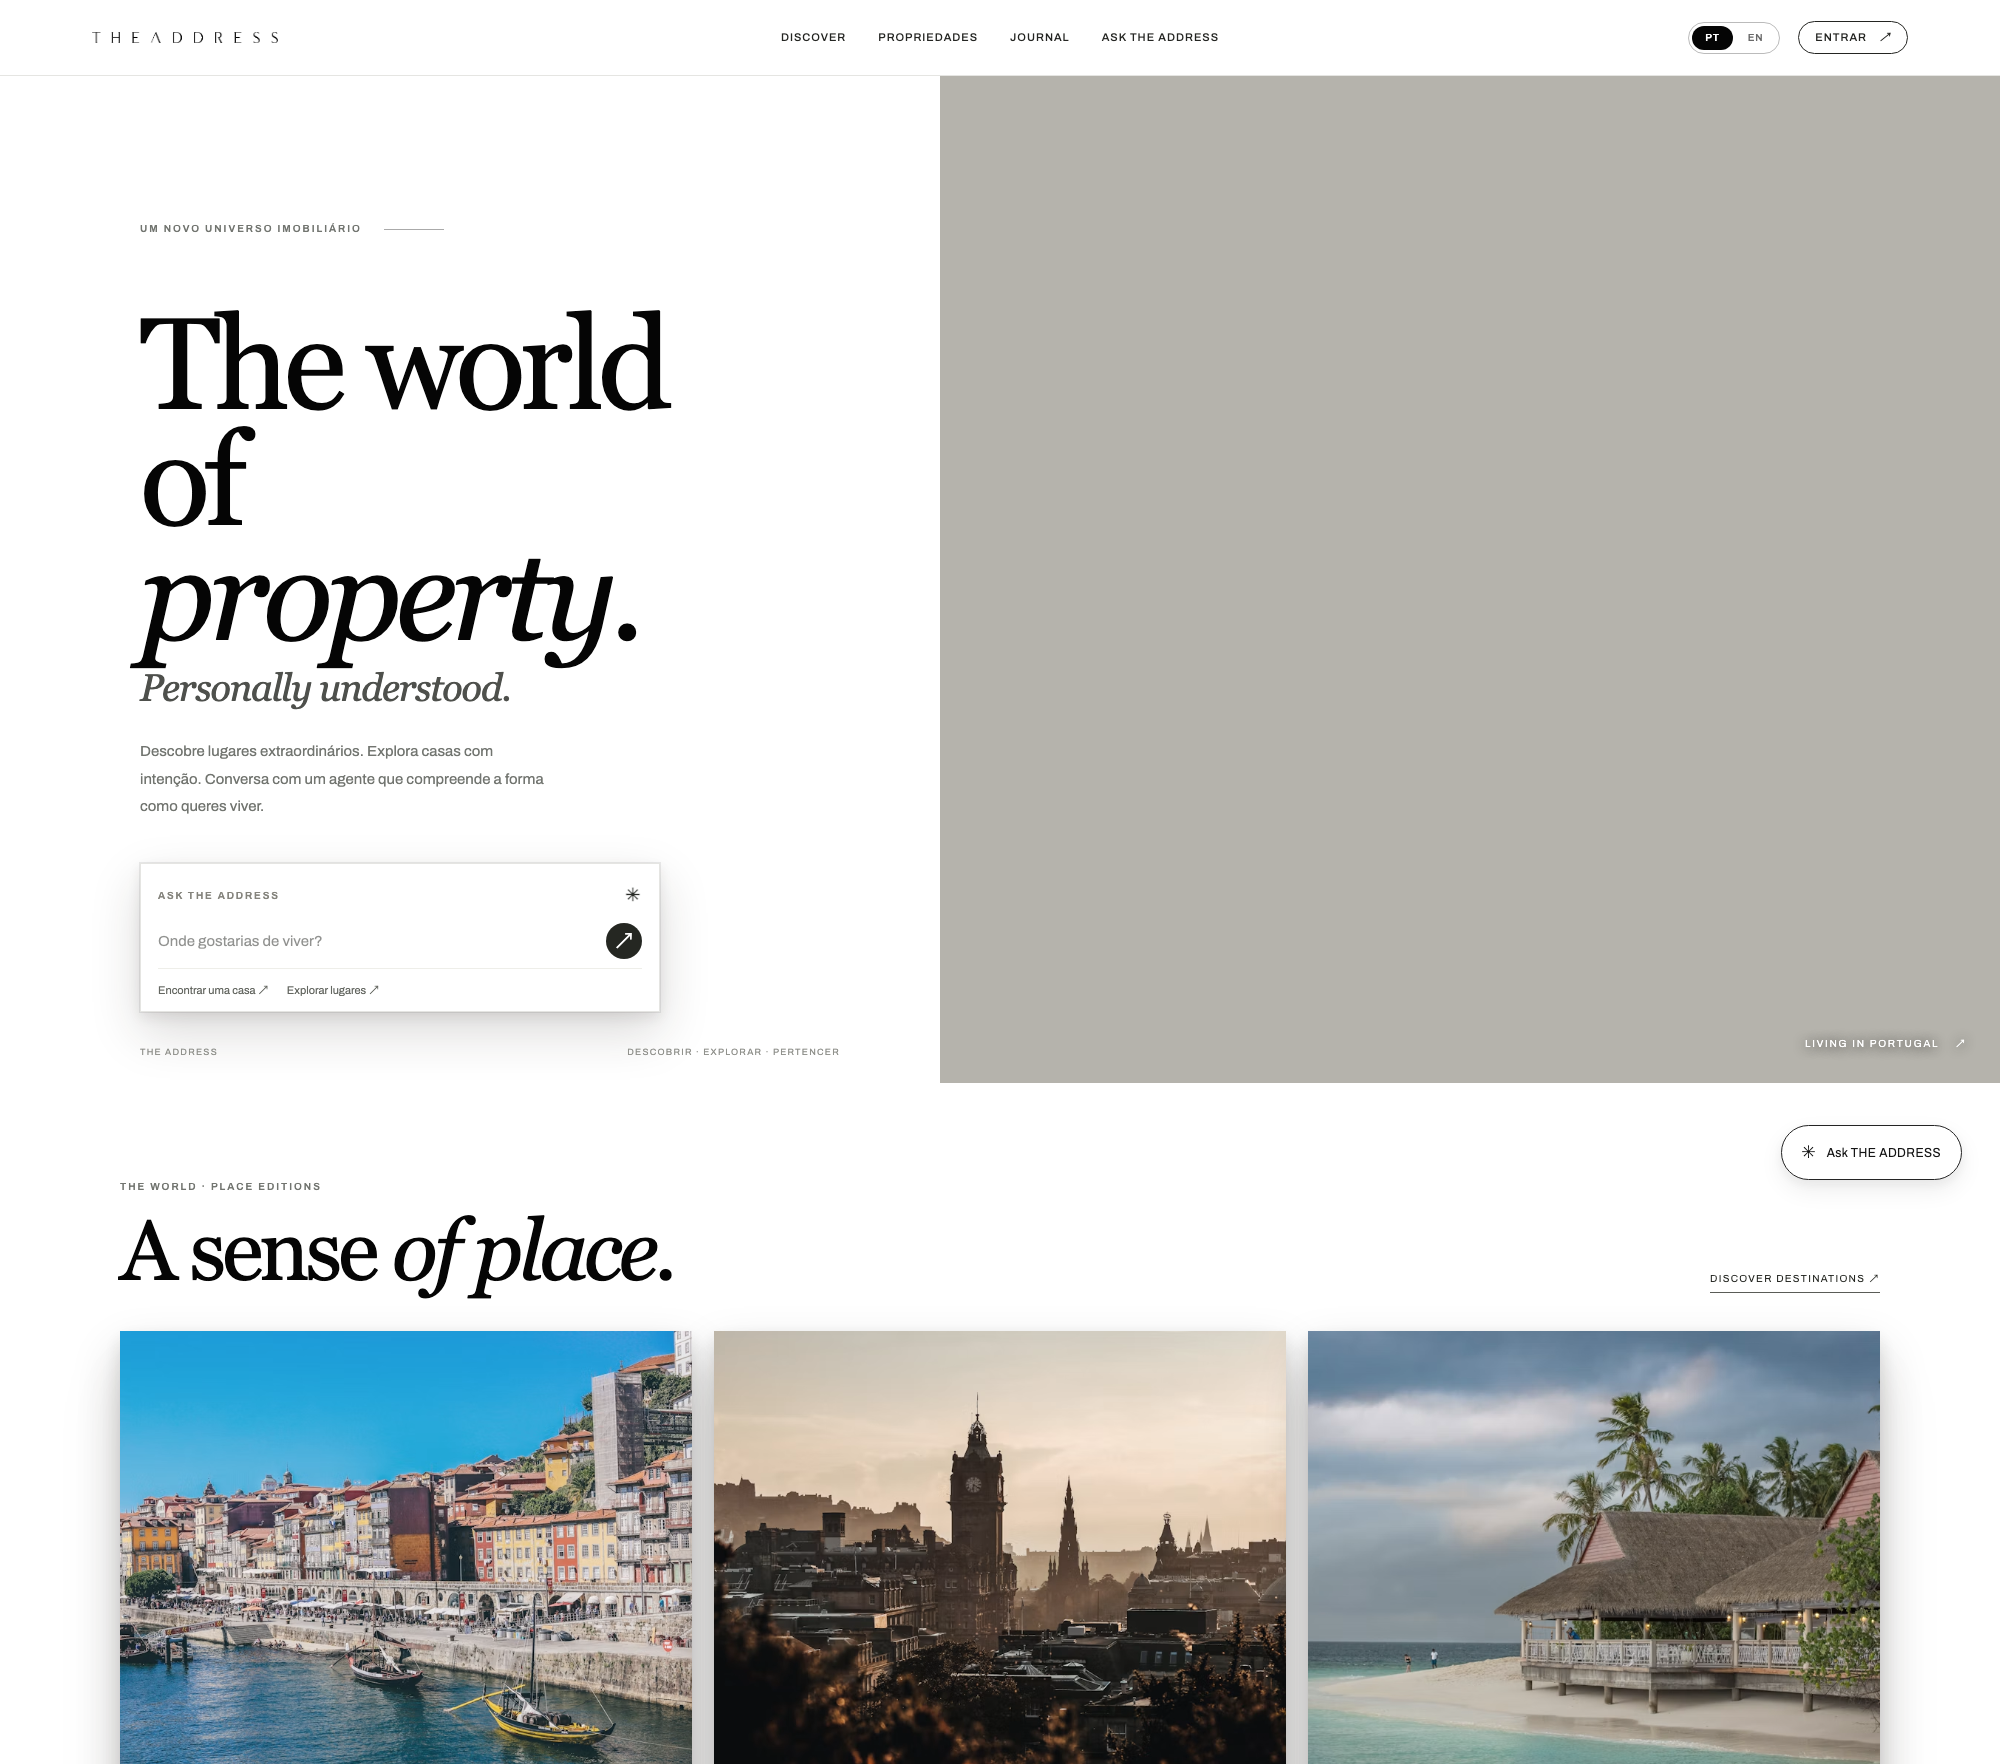
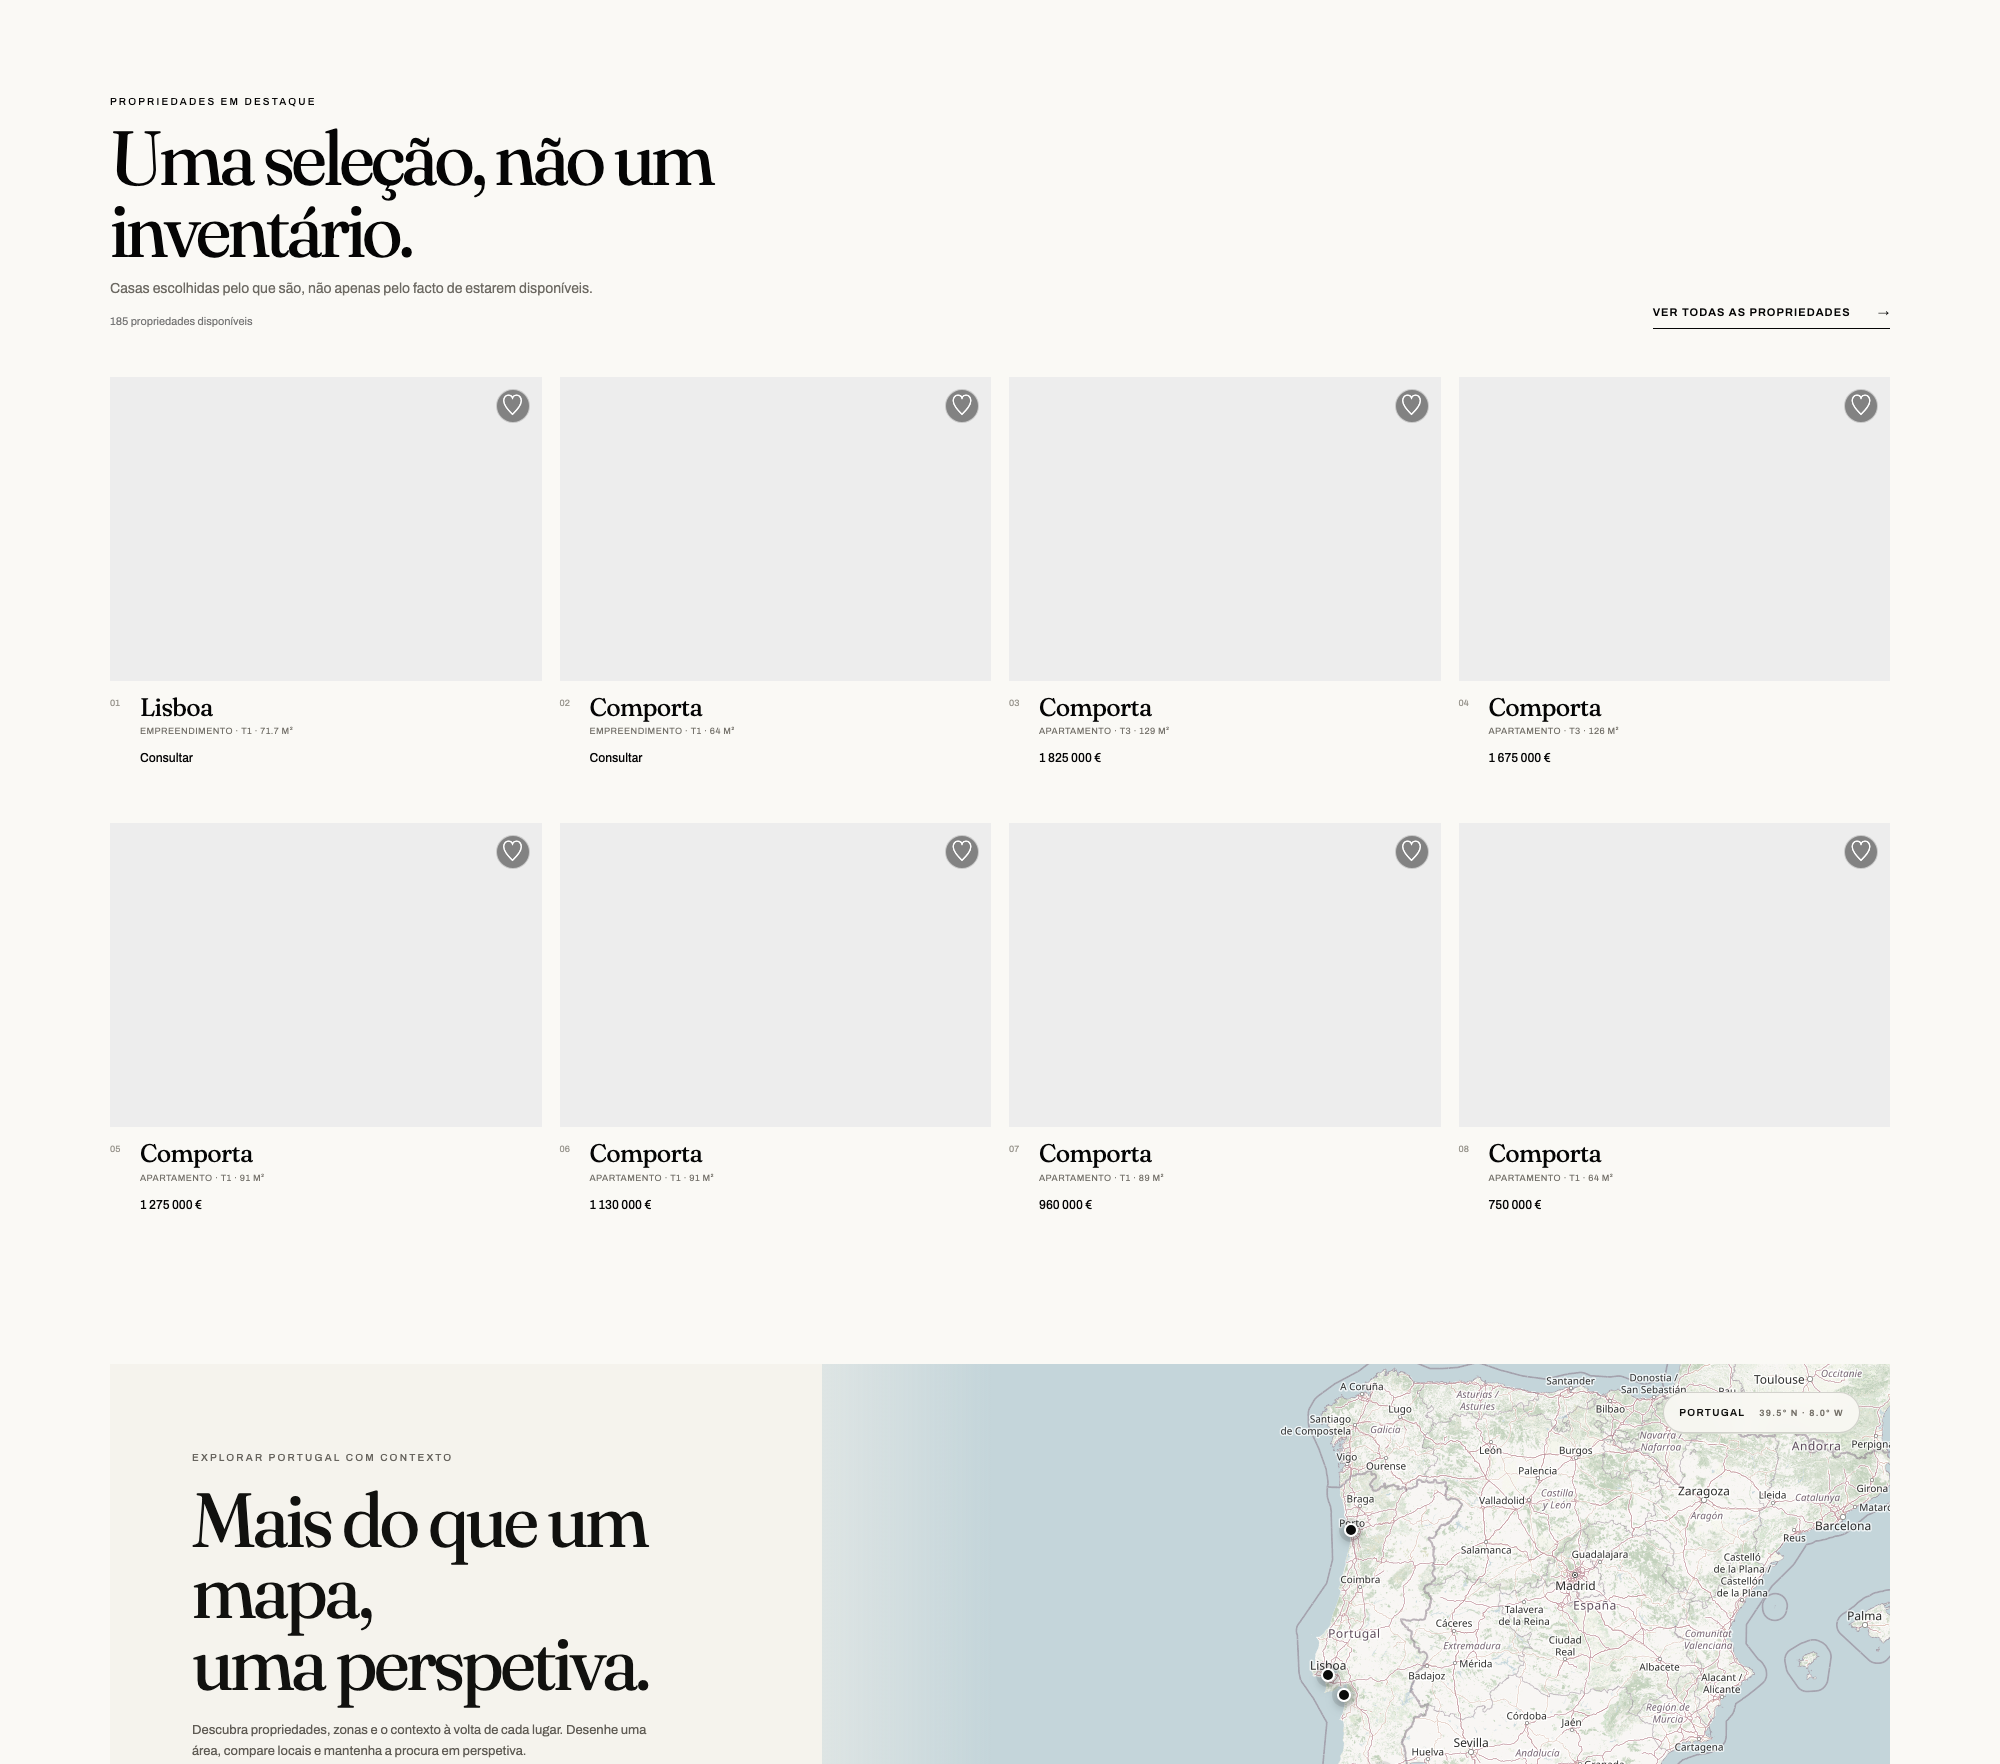
review: align claims and figures with live production — Journal, capa crop, branded OG, precise alts (review 23/10)

diff --git a/src/content/projects/the-address.md b/src/content/projects/the-address.md
@@ -8,8 +8,8 @@ attributionPt: 'Conceção de produto, direção criativa e de tecnologia — In
 summary: 'Search stops being a catalogue to browse and becomes an intention the system keeps alive — property intelligence in production.'
 summaryPt: 'A procura deixa de ser um catálogo para folhear e passa a ser uma intenção que o sistema mantém viva — inteligência imobiliária em produção.'
 image: '/projects/the-address/capa.png'
-imageAlt: 'THE ADDRESS front page in production: an editorial edition — “Imóveis extraordinários, sem ruído” — with a deliberate selection of properties, not a wall of listings.'
-imageAltPt: 'Página inicial da THE ADDRESS em produção: uma edição editorial — «Imóveis extraordinários, sem ruído» — com seleção deliberada de imóveis, não uma montra de anúncios.'
+imageAlt: 'THE ADDRESS front page in production: the editorial section “Uma seleção, não um inventário” (“A selection, not an inventory”), with deliberately chosen property cards.'
+imageAltPt: 'Página inicial da THE ADDRESS em produção: a secção editorial «Uma seleção, não um inventário», com cartões de imóveis deliberadamente escolhidos.'
 published: 2026-10-23
 draft: false
 ---
